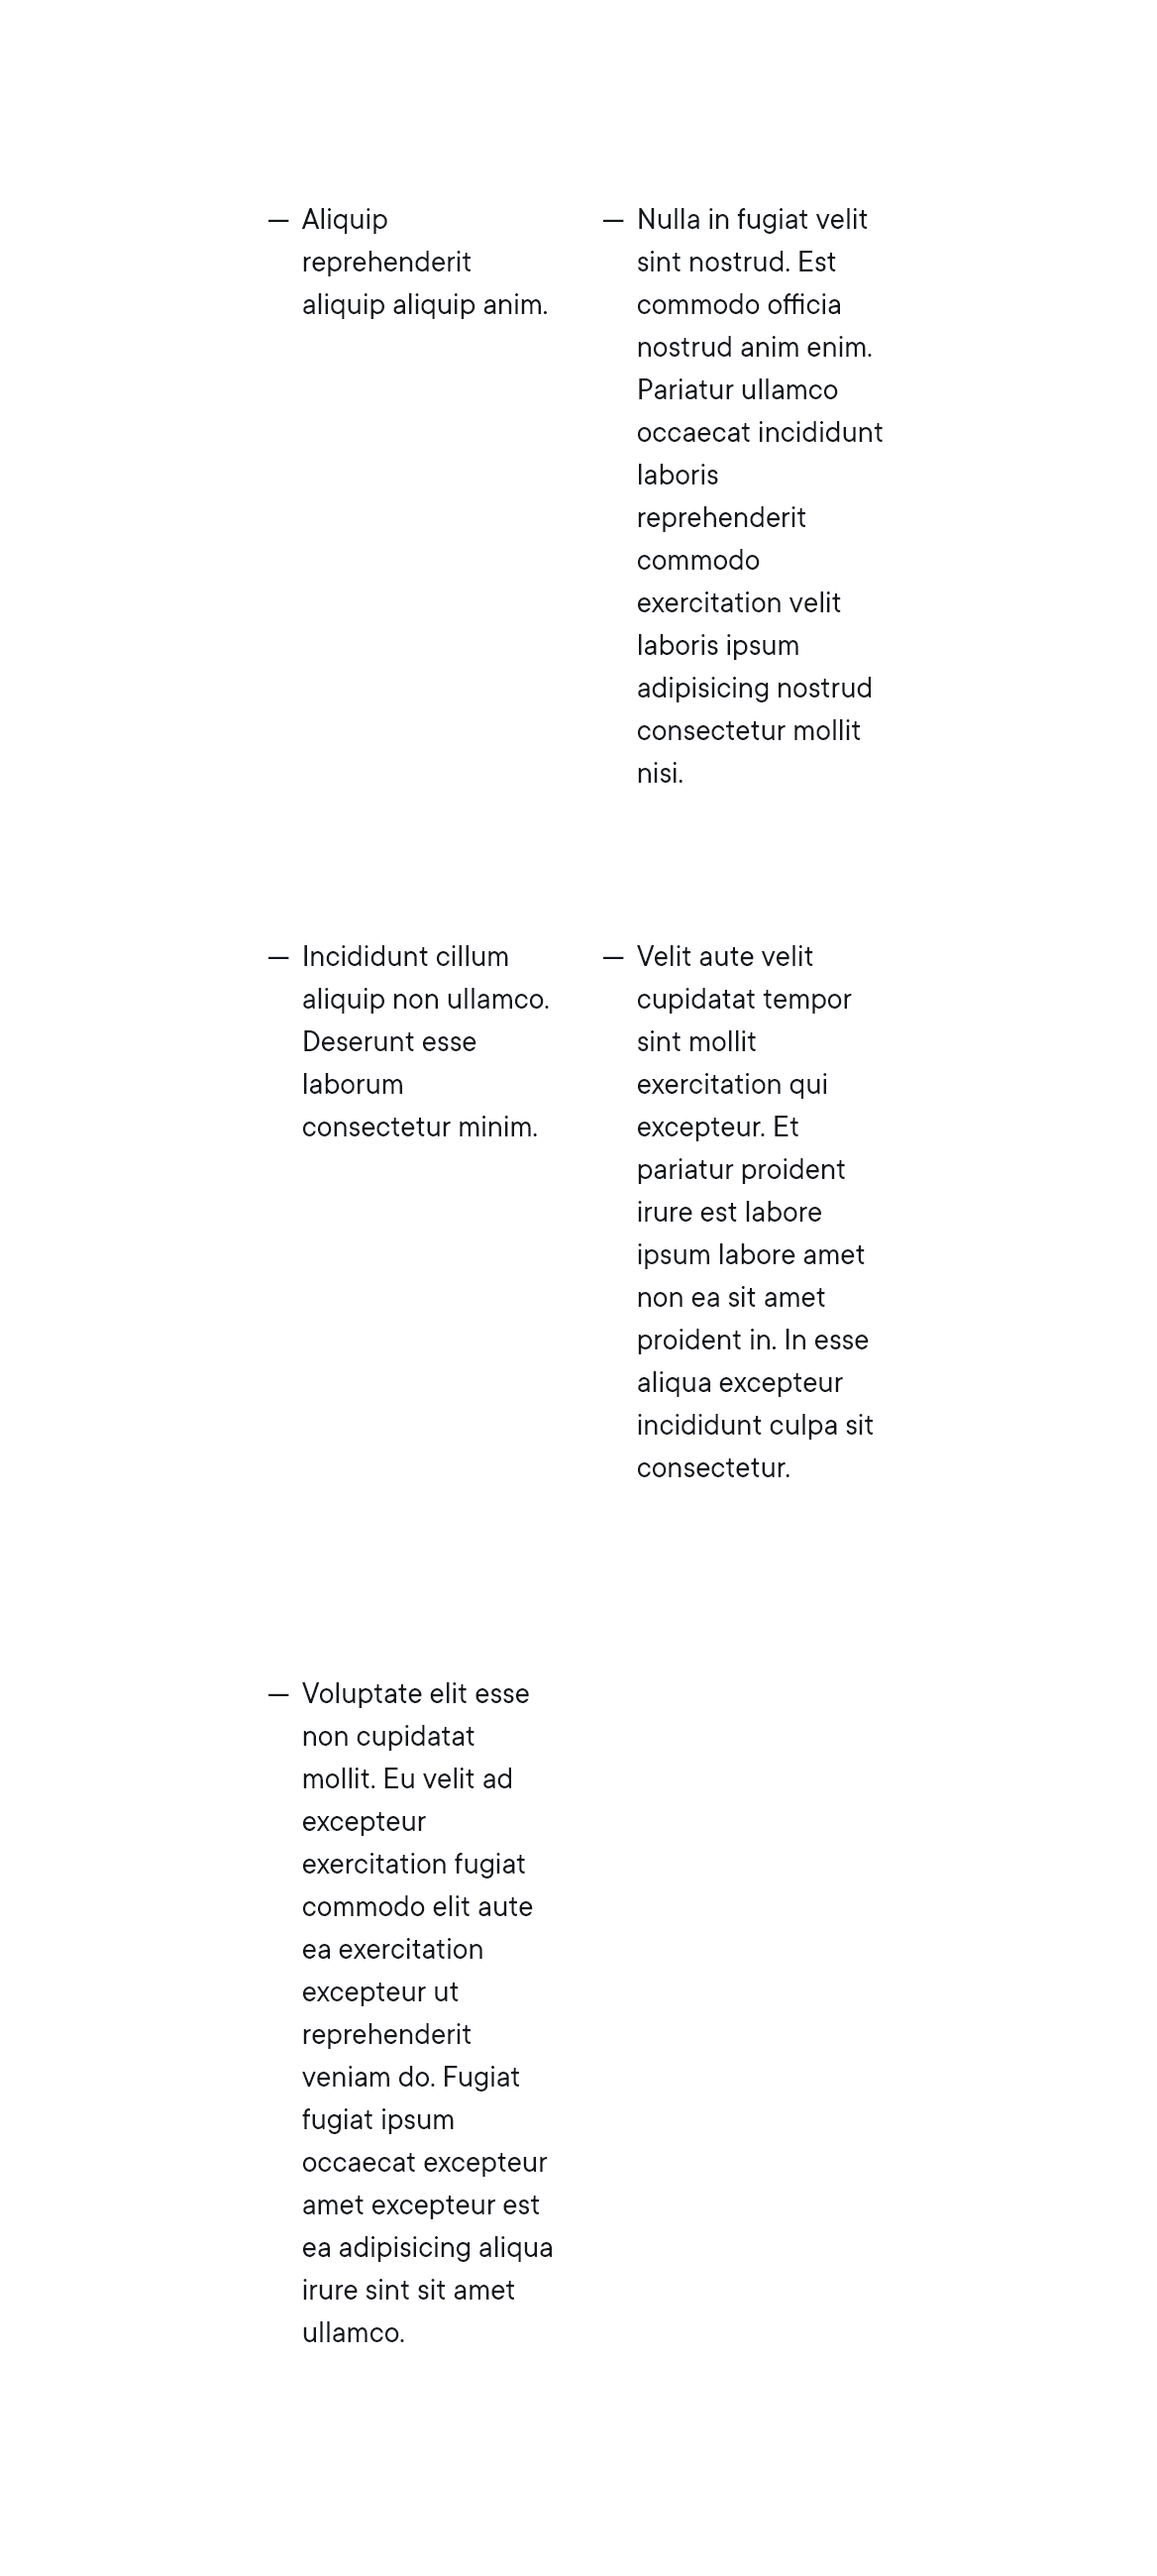
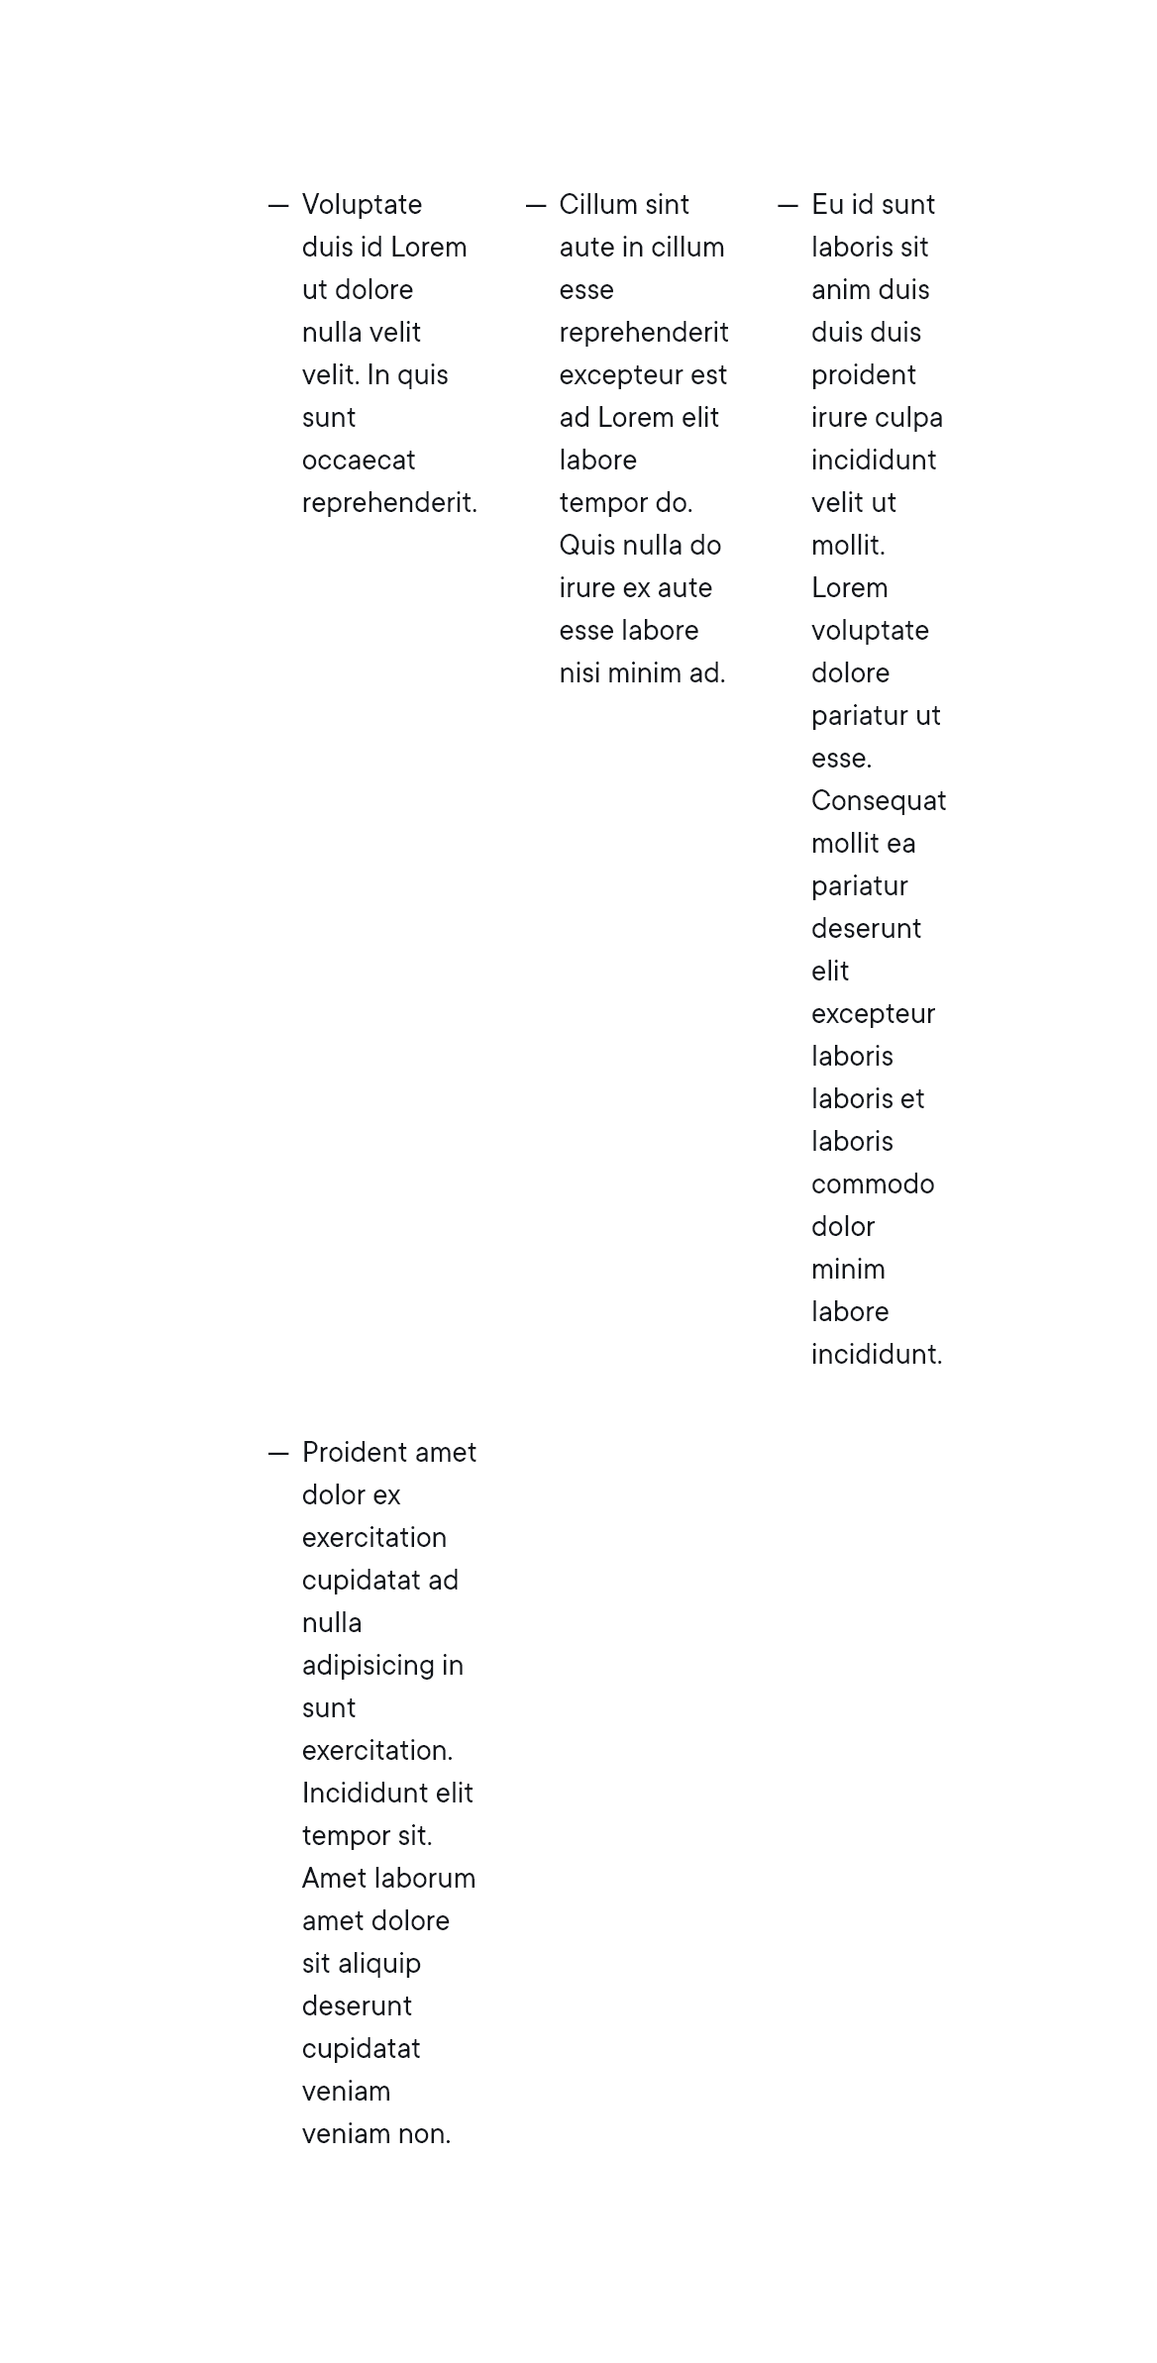
generated mocks

diff --git a/.slicemachine/assets/slices/List/index.stories.js b/.slicemachine/assets/slices/List/index.stories.js
@@ -18,7 +18,7 @@ export const _DefaultSlice = () => ({
   },
   data() {
     return {
-      mock: {"variation":"default-slice","name":"Default slice","slice_type":"list","items":[{"Item":[{"type":"paragraph","text":"Aliquip reprehenderit aliquip aliquip anim.","spans":[]}]},{"Item":[{"type":"paragraph","text":"Incididunt cillum aliquip non ullamco. Deserunt esse laborum consectetur minim.","spans":[]}]},{"Item":[{"type":"paragraph","text":"Voluptate elit esse non cupidatat mollit. Eu velit ad excepteur exercitation fugiat commodo elit aute ea exercitation excepteur ut reprehenderit veniam do. Fugiat fugiat ipsum occaecat excepteur amet excepteur est ea adipisicing aliqua irure sint sit amet ullamco.","spans":[]}]},{"Item":[{"type":"paragraph","text":"Nulla in fugiat velit sint nostrud. Est commodo officia nostrud anim enim. Pariatur ullamco occaecat incididunt laboris reprehenderit commodo exercitation velit laboris ipsum adipisicing nostrud consectetur mollit nisi.","spans":[]}]},{"Item":[{"type":"paragraph","text":"Velit aute velit cupidatat tempor sint mollit exercitation qui excepteur. Et pariatur proident irure est labore ipsum labore amet non ea sit amet proident in. In esse aliqua excepteur incididunt culpa sit consectetur.","spans":[]}]}],"primary":{},"id":"_DefaultSlice"}
+      mock: {"variation":"default-slice","name":"Default slice","slice_type":"list","items":[{"Item":[{"type":"paragraph","text":"Voluptate duis id Lorem ut dolore nulla velit velit. In quis sunt occaecat reprehenderit.","spans":[]}]},{"Item":[{"type":"paragraph","text":"Cillum sint aute in cillum esse reprehenderit excepteur est ad Lorem elit labore tempor do. Quis nulla do irure ex aute esse labore nisi minim ad.","spans":[]}]},{"Item":[{"type":"paragraph","text":"Eu id sunt laboris sit anim duis duis duis proident irure culpa incididunt velit ut mollit. Lorem voluptate dolore pariatur ut esse. Consequat mollit ea pariatur deserunt elit excepteur laboris laboris et laboris commodo dolor minim labore incididunt.","spans":[]}]},{"Item":[{"type":"paragraph","text":"Proident amet dolor ex exercitation cupidatat ad nulla adipisicing in sunt exercitation. Incididunt elit tempor sit. Amet laborum amet dolore sit aliquip deserunt cupidatat veniam veniam non.","spans":[]}]}],"primary":{},"id":"_DefaultSlice"}
     }
   },
   template: '<SliceZone :slices="[mock]" :resolver="resolve" />'
@@ -37,7 +37,7 @@ export const _OrderedList = () => ({
   },
   data() {
     return {
-      mock: {"variation":"orderedList","name":"Ordered List","slice_type":"list","items":[{"Item":[{"type":"paragraph","text":"Tempor excepteur sunt elit.","spans":[]}]},{"Item":[{"type":"paragraph","text":"Ex deserunt ex ut voluptate duis sit anim minim aliqua. Labore esse commodo duis ullamco consequat adipisicing veniam proident enim cupidatat ad nulla cupidatat quis.","spans":[]}]},{"Item":[{"type":"paragraph","text":"Sint veniam ex duis laborum commodo.","spans":[]}]},{"Item":[{"type":"paragraph","text":"Sunt exercitation id nisi. Enim consectetur eu cupidatat enim nisi enim incididunt adipisicing. Officia culpa est incididunt incididunt dolor consectetur esse cillum consequat amet pariatur eiusmod id.","spans":[]}]}],"primary":{},"id":"_OrderedList"}
+      mock: {"variation":"orderedList","name":"Ordered List","slice_type":"list","items":[{"Item":[{"type":"paragraph","text":"Occaecat dolore occaecat ex nostrud laborum irure esse.","spans":[]}]},{"Item":[{"type":"paragraph","text":"Excepteur consectetur ex aliqua laboris eu tempor cillum pariatur et aliqua velit veniam. Fugiat ut ullamco occaecat occaecat in incididunt exercitation ex ipsum sint officia ut mollit non. Et ut velit esse excepteur velit Lorem ipsum esse amet est magna eiusmod.","spans":[]}]},{"Item":[{"type":"paragraph","text":"Labore dolor enim exercitation occaecat aute ullamco fugiat. Sit nulla sint aliqua do excepteur labore occaecat. In excepteur voluptate proident mollit Lorem non nostrud.","spans":[]}]},{"Item":[{"type":"paragraph","text":"Ea esse tempor est sunt. Elit aliqua veniam dolor cillum eu.","spans":[]}]}],"primary":{},"id":"_OrderedList"}
     }
   },
   template: '<SliceZone :slices="[mock]" :resolver="resolve" />'

diff --git a/.slicemachine/assets/slices/BannerImage/index.stories.js b/.slicemachine/assets/slices/BannerImage/index.stories.js
@@ -18,7 +18,7 @@ export const _DefaultSlice = () => ({
   },
   data() {
     return {
-      mock: {"variation":"default-slice","name":"Default slice","slice_type":"banner_image","items":[],"primary":{"image":{"dimensions":{"width":2560,"height":1440},"alt":"Placeholder image","copyright":null,"url":"https://images.unsplash.com/photo-1551739440-5dd934d3a94a?w=2560&h=1440&fit=crop"}},"id":"_DefaultSlice"}
+      mock: {"variation":"default-slice","name":"Default slice","slice_type":"banner_image","items":[],"primary":{"image":{"dimensions":{"width":2560,"height":1440},"alt":"Placeholder image","copyright":null,"url":"https://images.unsplash.com/photo-1560762484-813fc97650a0?w=2560&h=1440&fit=crop"}},"id":"_DefaultSlice"}
     }
   },
   template: '<SliceZone :slices="[mock]" :resolver="resolve" />'
